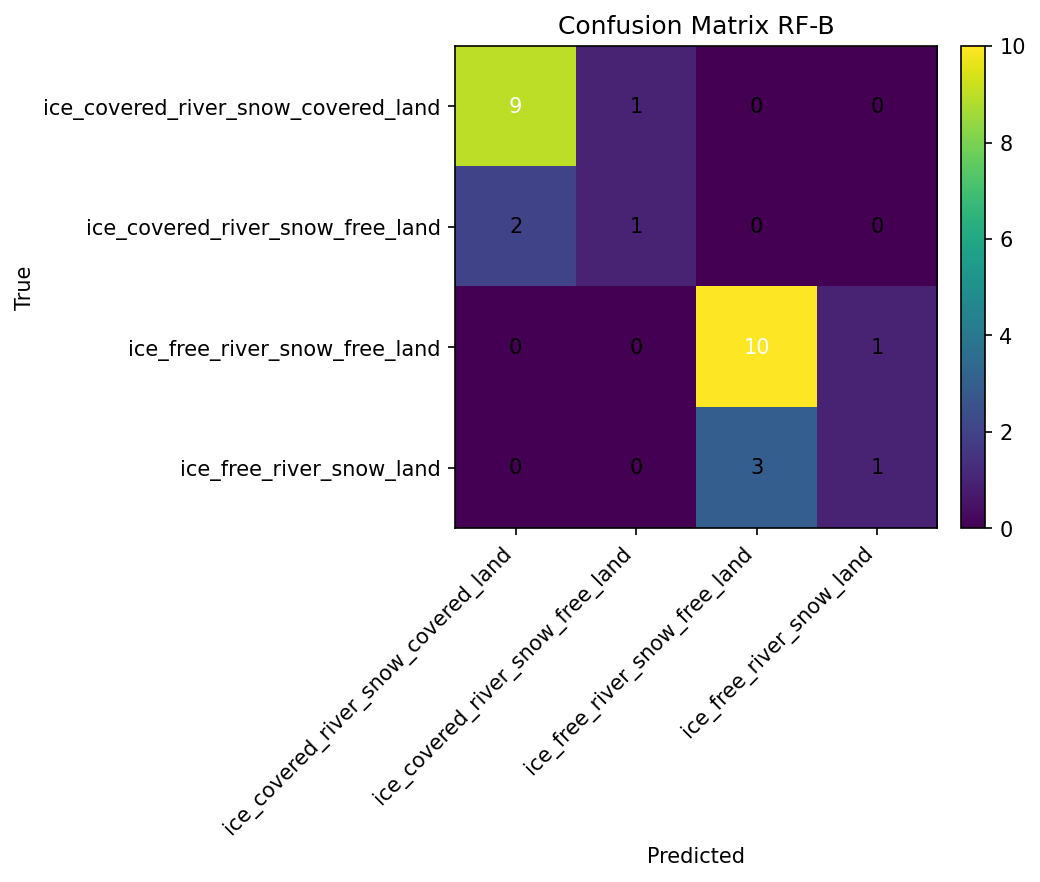
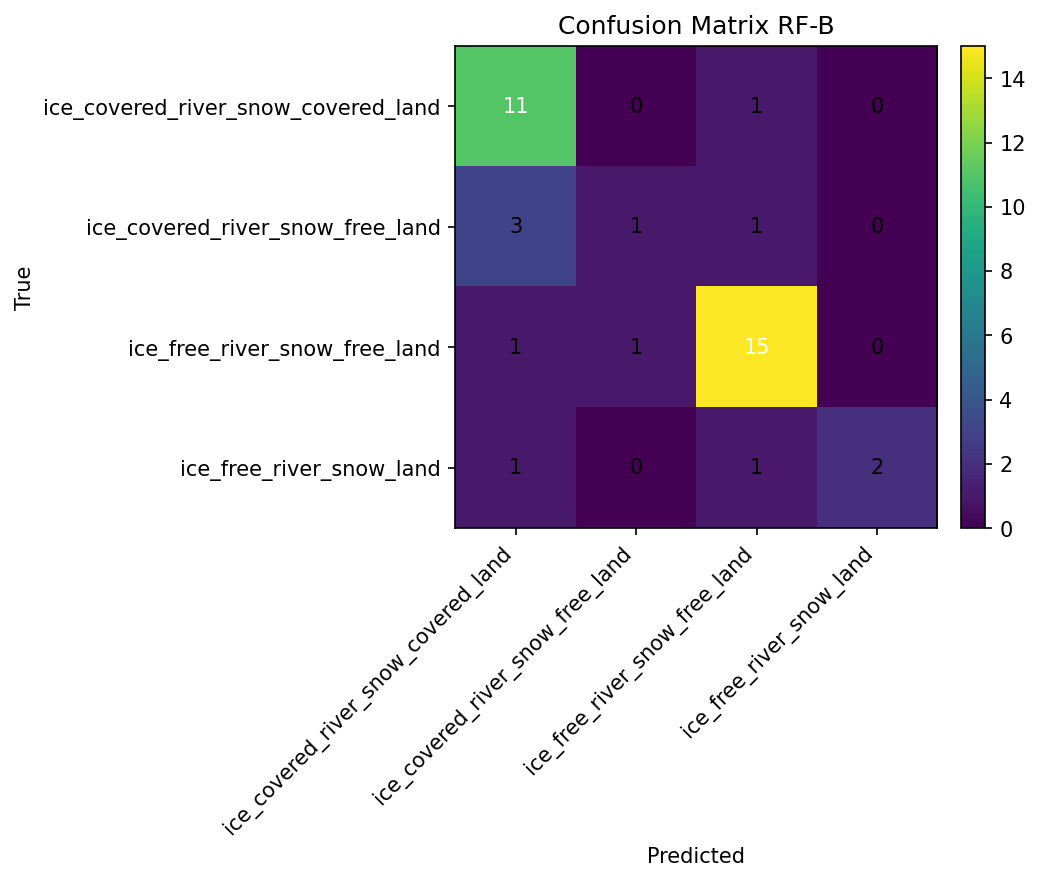
feat(training): add 7 collaborator scenes, expand Dataset A to 93 rows
- Add enriched CSVs for 7 new scenes (50 confirmed pixels total):
  2023-05-19 (4), 2023-09-25 (12), 2023-10-26 (8), 2024-04-27 (7),
  2024-10-18 (3), 2025-04-20 (7), 2025-05-15 (9)
- Scene-specific row drops applied:
  2024-10-18: lat=65.12035 (outside Landsat swath)
  2025-04-20: lat=62.97796 (outside Landsat swath)
- DATASET_A_FILES expanded from 6 to 13 entries in train_model.py
- Dataset A: 43 → 93 rows; Dataset C (clean baseline): 119 → 169 rows
- Retrained RF-B, RF-C, XGB-B, XGB-C; CV std on RF-B dropped 0.087→0.017
  indicating more stable generalisation with expanded confirmed data

diff --git a/dev/nooa-research/training/train_model.py b/dev/nooa-research/training/train_model.py
@@ -55,6 +55,13 @@ DATASET_A_FILES = [
     TRAINING_DIR / "viirs_d20200304_t2056/outputs/training_candidates_2020-03-04_enriched.csv",
     TRAINING_DIR / "20230415/training_candidates_2023-04-15_enriched.csv",
     TRAINING_DIR / "20240314/training_candidates_2024-03-14_enriched.csv",
+    TRAINING_DIR / "20230519/training_candidates_2023-05-19_enriched.csv",
+    TRAINING_DIR / "20230925/training_candidates_2023-09-25_enriched.csv",
+    TRAINING_DIR / "20231026/training_candidates_2023-10-26_enriched.csv",
+    TRAINING_DIR / "20240427/training_candidates_2024-04-27_enriched.csv",
+    TRAINING_DIR / "20241018/training_candidates_2024-10-18_enriched.csv",
+    TRAINING_DIR / "20250420/training_candidates_2025-04-20_enriched.csv",
+    TRAINING_DIR / "20250515/training_candidates_2025-05-15_enriched.csv",
 ]
 DAKSH_V2_FILE = TRAINING_DIR / "daksh_training_candidates_v2_cleaned_enriched.csv"
 MAY_N50_FILE = TRAINING_DIR / "viirs_d20210503_t1947/outputs/training_candidates_2021-05-03_n50_enriched.csv"
